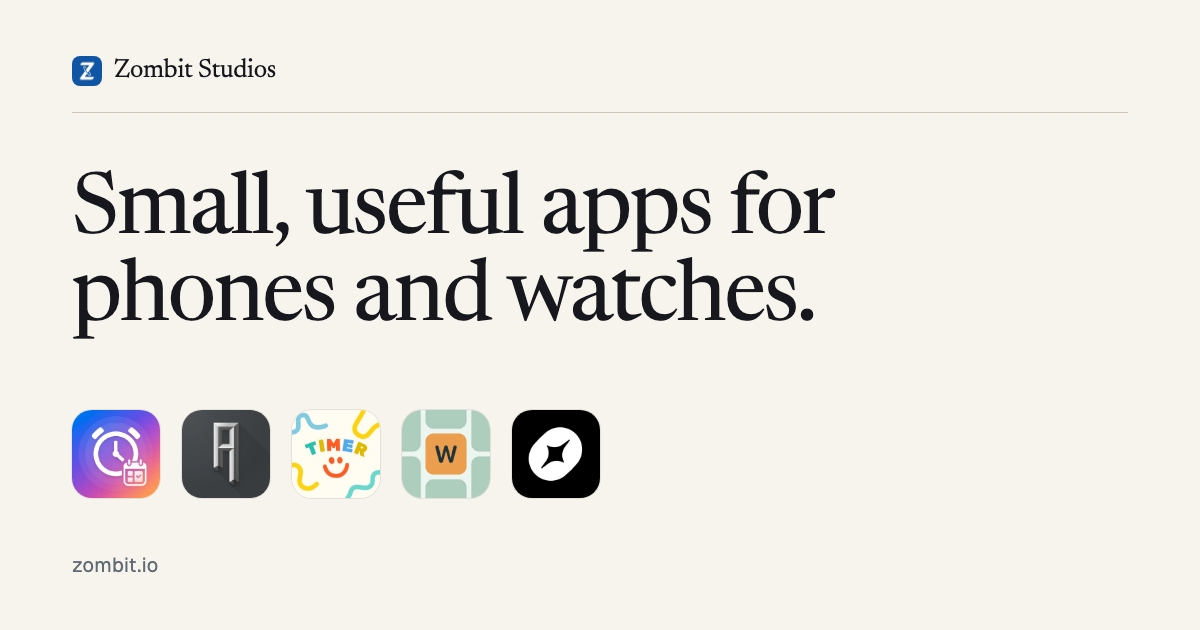
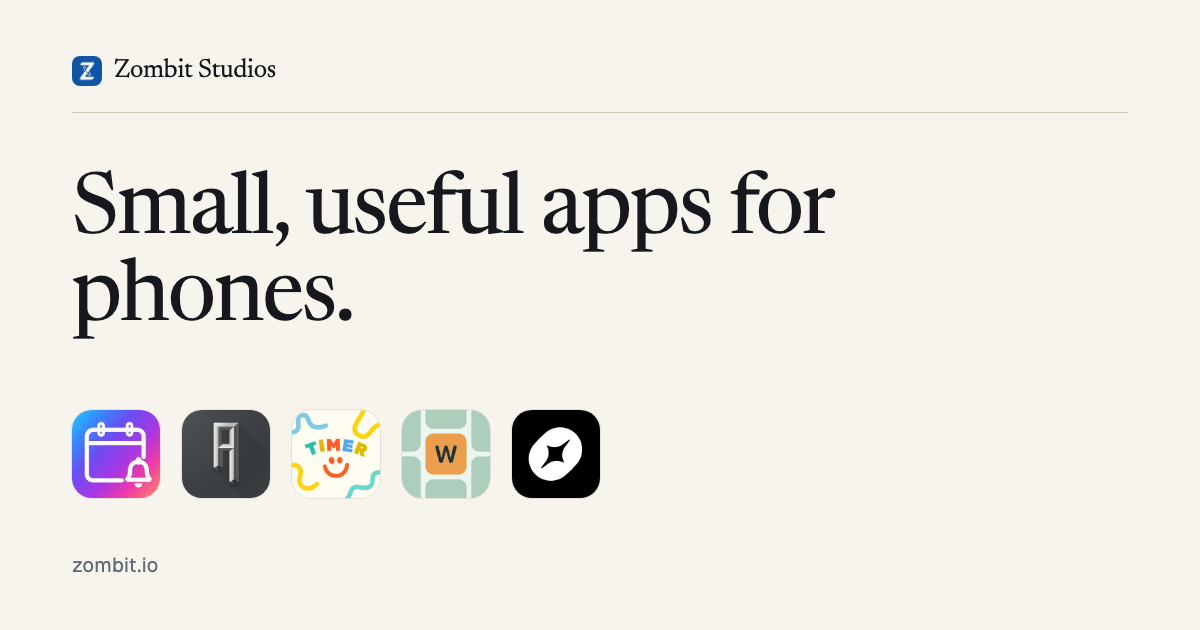
Always On Time: remove Wear OS watch claims
The watch app is not on Play's production track, so the app page, its two
blog posts and the studio tagline no longer say the alarms work on a watch.
The privacy policy and terms are unchanged. Google Calendar's own Wear app
and competitors' watch support stay in the posts.

Changed region(s): [[0.2775, 0.3921, 0.6783, 0.5127], [0.0617, 0.6333, 0.1542, 0.8143]]

diff --git a/src/data/apps.ts b/src/data/apps.ts
@@ -179,7 +179,6 @@ export const ALL_APPS: AppEntry[] = [
         items: [
           "Guided setup for notifications, exact alarms, full-screen alerts, and battery settings",
           "Upcoming alarms are restored after a phone restart",
-          "Receive meeting alarms on a compatible Wear OS watch, and snooze or dismiss there",
         ],
       },
     ],
@@ -202,7 +201,7 @@ export const ALL_APPS: AppEntry[] = [
       },
       {
         q: "Is Always On Time available on iPhone?",
-        a: "Not yet. Always On Time is on Google Play for Android, with a companion for compatible Wear OS watches. It is not on the App Store yet.",
+        a: "Not yet. Always On Time is on Google Play for Android. It is not on the App Store yet.",
       },
       {
         q: "Will my alarms still ring after I restart my phone?",
@@ -259,7 +258,7 @@ export const ALL_APPS: AppEntry[] = [
     schemaCategory: "ProductivityApplication",
     category: "Productivity",
     notes: [
-      "Android, with a Wear OS companion. Not on the App Store yet.",
+      "Android. Not on the App Store yet.",
       "No ads.",
       "Your calendar is processed on your phone to schedule alarms.",
     ],
@@ -815,7 +814,7 @@ export function priceLabel(l: Listing | undefined) {
 export const SITE = {
   name: "Zombit Studios",
   legalName: "Zombit Studios LLC",
-  tagline: "Small, useful apps for phones and watches.",
+  tagline: "Small, useful apps for phones.",
   description:
     "Zombit Studios LLC is a small independent app studio. It makes five single-purpose apps: Always On Time, a calendar alarm for Android; Artillery Let Loose, an artillery calculator for Hell Let Loose and WARDOGS; Montessori Visual Timer for children; Word Garden, a daily spelling bee puzzle; and Coffee Roast Tracker for home roasters.",
   email: "zombit.studios@gmail.com",

diff --git a/src/data/flags.ts b/src/data/flags.ts
@@ -14,8 +14,8 @@ export const CONNECTOR_URL = "https://alwaysontime.zombit.io/mcp";
  * when the page's content actually changes; a build alone is not a change.
  */
 export const LASTMOD = {
-  home: "2026-10-17",
-  apps: "2026-10-30",
+  home: "2026-11-02",
+  apps: "2026-11-02",
   privacy: "2026-10-30",
   support: "2026-10-17",
   assistants: "2026-10-26",

diff --git a/src/content/blog/calendar-alarm-apps-android-comparison.md b/src/content/blog/calendar-alarm-apps-android-comparison.md
@@ -3,7 +3,7 @@ title: "Calendar Alarm Apps for Android Compared (2026)"
 description: "Google Calendar only sends notifications on Android. Always On Time turns events into free, ad-free full-screen alarms. How it compares with ZenLendar and more."
 slug: "calendar-alarm-apps-android-comparison"
 date: "2026-10-17"
-updated: "2026-10-30"
+updated: "2026-11-02"
 app: "always-on-time"
 kind: "comparison"
 faq:
@@ -74,10 +74,10 @@ We make Always On Time. Everything below about other apps comes from their Googl
 | No ads | ✓ | Pro | ✗ | ✓ | ✓ | ✓ | Pro |
 | Snooze from the alarm | ✓ | ✓ | ✓ | Not listed | ✓ | Not listed | Pro |
 | Any calendar synced to your phone | ✓ | ✓ | ✓ | Via notifications | ✗ Google primary only | Not listed | Not listed |
-| Wear OS watch | Beta¹ | PRO+ | Not listed | ✓ | Not listed | Not listed | Not listed |
-| AI assistant connector (Claude, ChatGPT, Gemini) | ✓² | Not listed | Not listed | Not listed | Not listed | Not listed | Not listed |
+| Wear OS watch | ✗ | PRO+ | Not listed | ✓ | Not listed | Not listed | Not listed |
+| AI assistant connector (Claude, ChatGPT, Gemini) | ✓¹ | Not listed | Not listed | Not listed | Not listed | Not listed | Not listed |
 
-From each app's Google Play listing, October 2026. "Not listed" means the listing doesn't mention it. "Pro", "PRO+" and "Premium" mean the feature needs that paid upgrade. "No ads" means the listing has no "Contains ads" label. ¹ Always On Time's Wear OS app is in open testing on Google Play. ² Claude and ChatGPT connect through Always On Time's account sync ([setup](/always-on-time/assistants/)); Gemini works on Android 16 and later.
+From each app's Google Play listing, October 2026. "Not listed" means the listing doesn't mention it. "Pro", "PRO+" and "Premium" mean the feature needs that paid upgrade. "No ads" means the listing has no "Contains ads" label. ¹ Claude and ChatGPT connect through Always On Time's account sync ([setup](/always-on-time/assistants/)); Gemini works on Android 16 and later.
 
 ## Prices at a glance
 
@@ -117,7 +117,6 @@ What it does, per its Play listing and app:
 - **Full-screen alarms, not banners.** By default an alarm rings for a minute, and you can set it to ring until you snooze or dismiss it. Alarms play at your alarm volume, not the notification volume.
 - **One tap from the alarm to the meeting.** It detects Google Meet, Zoom, Microsoft Teams and Webex links, so you can join from the alarm screen.
 - **Alarms that fit your day.** Choose which calendars to watch, set several alarms per event (such as 10 minutes before and at the start), and adjust settings per calendar or per event.
-- **Snooze or dismiss from your wrist** on a compatible Wear OS watch.
 - **Guided setup for reliable alarms.** It walks you through notifications, exact alarms, full-screen alerts and battery settings, and alarms are restored after a restart.
 - **Leave-on-time alarms.** Optional travel-time alarms for events with an address ring when it's time to leave. Live traffic for these is part of Always On Time Plus, which is free for a limited time.
 - **Designed with ADHD and time blindness in mind**, with no scores or streaks.

diff --git a/src/content/blog/google-calendar-alarm-android.md b/src/content/blog/google-calendar-alarm-android.md
@@ -3,7 +3,7 @@ title: "How to Make Google Calendar Events Ring Like an Alarm on Android"
 description: "Google Calendar on Android sends notifications, not alarms. Use these settings to make them harder to miss, or Always On Time to turn events into real alarms."
 slug: "google-calendar-alarm-android"
 date: "2026-10-17"
-updated: "2026-10-30"
+updated: "2026-11-02"
 app: "always-on-time"
 kind: "guide"
 faq:
@@ -65,10 +65,10 @@ Always On Time also offers spoken alarms, stronger vibration and flashing alerts
 | Join Meet, Zoom, Teams or Webex from the alert | ✓ | From the event | ✗ |
 | Alarm times per calendar or per event | ✓ | ✓ | ✗ |
 | "Time to leave" alarms | ✓ | ✗ | ✗ |
-| Wear OS watch | Beta¹ | ✓ | Varies by phone |
+| Wear OS watch | ✗ | ✓ | Varies by phone |
 | No ads | ✓ | ✓ | ✓ |
 
-Google Calendar details are from Google's help pages, October 2026. ¹ Always On Time's Wear OS app is in open testing on Google Play.
+Google Calendar details are from Google's help pages, October 2026.
 
 Below are the built-in steps first, then the app option. Menu names vary a little between Android versions and phone makers, so look for the closest match on your phone.
 
@@ -151,7 +151,7 @@ A calendar alarm app reads the calendars already on your phone and schedules a *
 5. **Follow the battery steps** for your phone so the system doesn't delay alarms.
 6. **Run a test alarm** from Settings to see and hear it before a real meeting.
 
-When an event comes up, **the alarm fills the screen** with the event title and how soon it starts, with sound and vibration. By default it rings for a minute, and you can set it to **keep ringing until you snooze or dismiss it**. If the event has a Google Meet, Zoom, Microsoft Teams or Webex link, you can **join from the alarm screen** in one tap. You can also snooze or dismiss from a compatible Wear OS watch.
+When an event comes up, **the alarm fills the screen** with the event title and how soon it starts, with sound and vibration. By default it rings for a minute, and you can set it to **keep ringing until you snooze or dismiss it**. If the event has a Google Meet, Zoom, Microsoft Teams or Webex link, you can **join from the alarm screen** in one tap.
 
 A few details that matter for alarms:
 

diff --git a/PRODUCT.md b/PRODUCT.md
@@ -63,7 +63,7 @@ existing Google Analytics property (`G-8VH9SBYS6Z`, property "zombit.io").
 - Store availability differs per app and must be stated accurately, never uniformly. Store titles
   differ from the app names for two apps, and both are shown:
   - **Always On Time** — Android only (`com.zombitstudios.alwaysontime`, listed as "Calendar
-    Alarm: Always On Time"). Has a Wear OS companion. No iOS build exists.
+    Alarm: Always On Time"). No iOS build exists.
   - **Artillery Let Loose** — iOS (`1616413054`, "ALL - HLL Artillery Calculator", $1.99) and
     Android (`flutter.app.artillery_let_loose`, "Wardogs & HLL Calculator", free with in-app
     purchases).

diff --git a/DESIGN.md b/DESIGN.md
@@ -1,6 +1,6 @@
 ---
 name: Zombit Studios
-description: Small, useful apps for phones and watches.
+description: Small, useful apps for phones.
 colors:
   paper: "#F7F4ED"
   paper-deep: "#EFEBE0"
